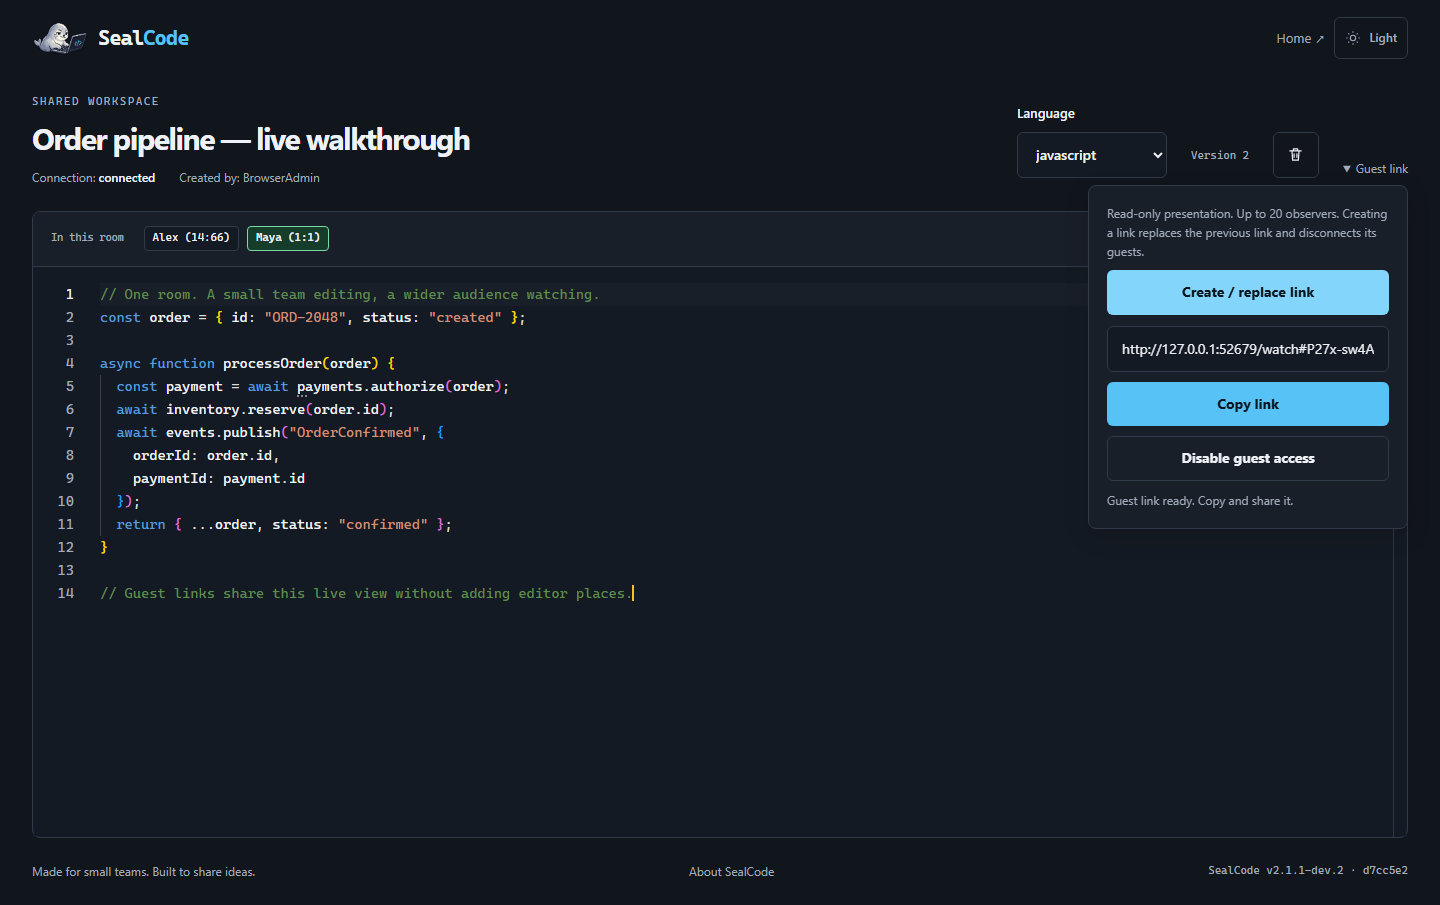
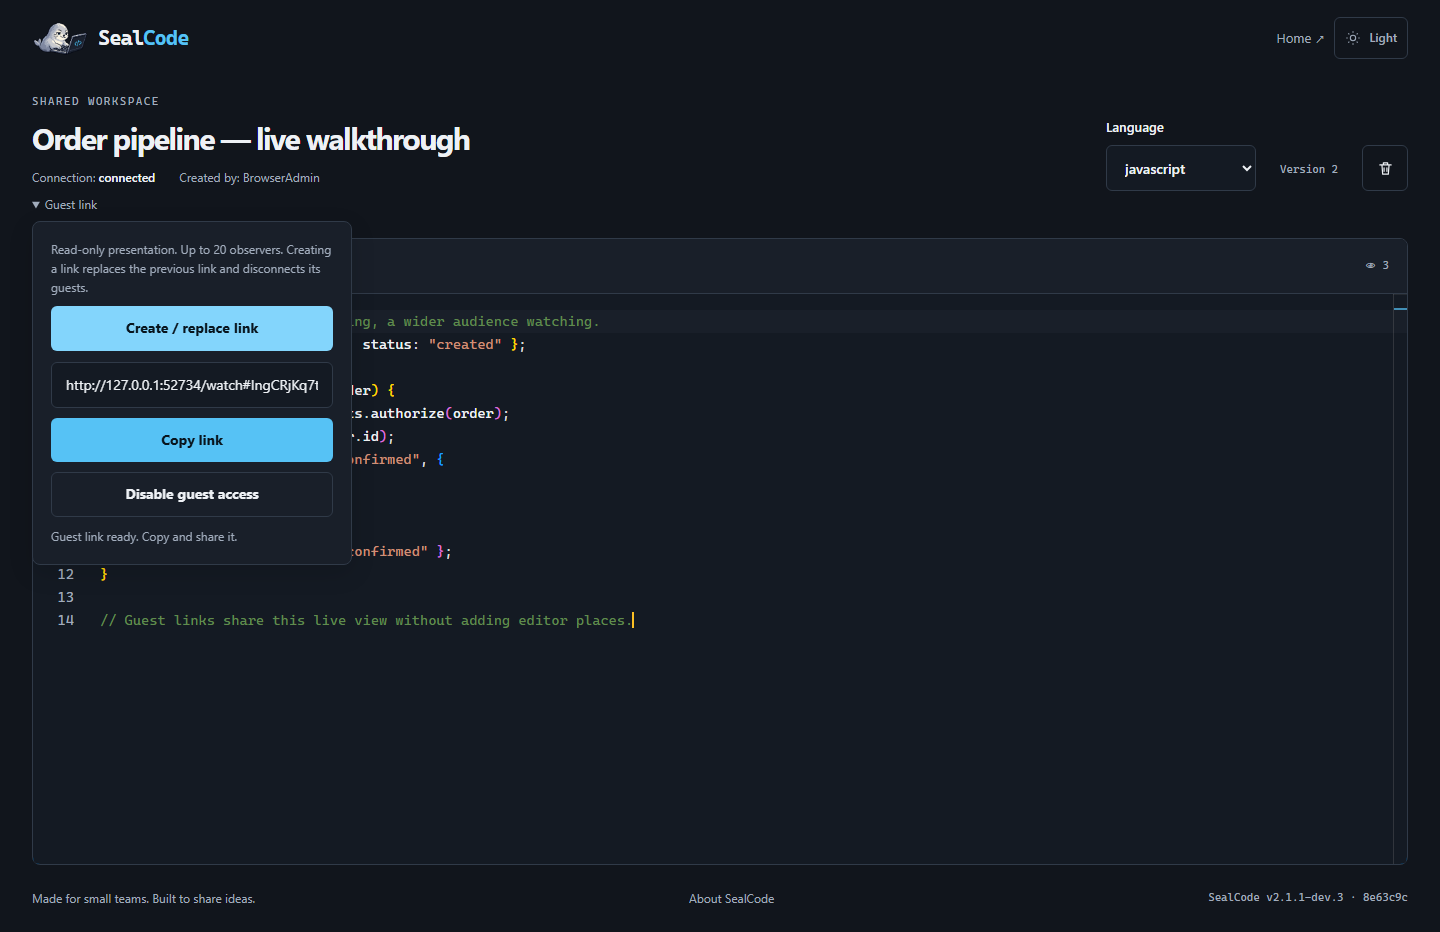
fix: move guest link controls below room connection details

diff --git a/src/SealCode/wwwroot/room.css b/src/SealCode/wwwroot/room.css
@@ -20,9 +20,9 @@
 .participants-bar li { padding: 3px 8px; border: 1px solid var(--border); border-radius: 4px; background: var(--input); font: 11px/1.5 var(--mono); color: var(--text); }
 .participants-bar li.active { border-color: var(--success); background: var(--active-bg); font-weight: 600; }
 .observer-count { margin-left: auto; white-space: nowrap; color: var(--muted); font: 11px/1.5 var(--mono); }
-.observer-link { position: relative; font-size: 12px; }
+.observer-link { position: relative; margin-top: 8px; font-size: 12px; }
 .observer-link summary { cursor: pointer; color: var(--muted); }
-.observer-link-panel { position: absolute; right: 0; top: 26px; z-index: 8; display: grid; gap: 10px; width: min(320px, calc(100vw - 48px)); padding: 18px; background: var(--panel); border: 1px solid var(--border); border-radius: 8px; box-shadow: 0 8px 24px #0002; }
+.observer-link-panel { position: absolute; left: 0; top: 26px; z-index: 8; display: grid; gap: 10px; width: min(320px, calc(100vw - 48px)); padding: 18px; background: var(--panel); border: 1px solid var(--border); border-radius: 8px; box-shadow: 0 8px 24px #0002; }
 .observer-link-panel p { margin: 0; color: var(--muted); font-size: 12px; }
 .observer-link-panel input { width: 100%; }
 .participants-bar li.copied { border-color: var(--selecting-text); background: var(--selecting-bg); color: var(--selecting-text); font-weight: 600; }
@@ -46,8 +46,6 @@
   .room-header { display: block; }
   .room-heading h1 { font-size: 26px; }
   .room-meta { position: relative; margin-top: 18px; align-items: center; gap: 16px; flex-wrap: wrap; }
-  .observer-link { position: static; }
-  .observer-link-panel { top: calc(100% + 8px); }
   .room-meta label { display: flex; align-items: center; gap: 12px; }
   .room-meta select { max-width: 180px; }
   .version { padding: 0; margin-left: auto; }

diff --git a/src/SealCode/wwwroot/observer-link.js b/src/SealCode/wwwroot/observer-link.js
@@ -57,5 +57,5 @@ export async function mountObserverLink({ document, roomId, fetch, window }) {
   });
   content.append(description, create, link, copy, disable, status);
   panel.append(summary, content);
-  document.querySelector('.room-meta')?.append(panel);
+  document.querySelector('.room-heading')?.append(panel);
 }
